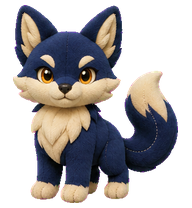
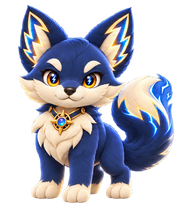
Refresh Quill with Lightning v2 art

diff --git a/src/host/familiar/catalogue.ts b/src/host/familiar/catalogue.ts
@@ -159,8 +159,7 @@ export const familiarCatalogue: readonly FamiliarCatalogueEntry[] = [
   defineFamiliar({ pet: livingGrimoirePet, request: livingGrimoireRequest, timing: livingGrimoireTiming,
     heroUrl: 'https://media.seihouse.org/SEN/GIF/Living%20grimore.gif', rarity: 'common', neutralColumn: 0 }),
   defineFamiliar({ pet: quillPet, request: quillRequest, timing: quillTiming,
-    heroUrl: '/familiars/quill/previews/waving.gif', rarity: 'common', isDefault: true, neutralColumn: 0,
-    animationFrameColumns: { waving: [1, 2] } }),
+    heroUrl: '/familiars/quill/previews/waving.gif', rarity: 'common', isDefault: true, neutralColumn: 0 }),
 ];
 
 const configuredDefaultFamiliar = familiarCatalogue.find(entry => entry.definition.isDefault);

diff --git a/src/host/familiar/catalogue.test.ts b/src/host/familiar/catalogue.test.ts
@@ -58,11 +58,11 @@ describe('Library Familiar catalogue', () => {
     expect(familiarCatalogueEntry('judgmental-jiangshi')?.definition.displayName).toBe('Judgmental Jiangshi');
   });
 
-  it('keeps Quill waving on the raised-paw atlas poses for its whole playback loop', () => {
+  it('plays Quill’s complete raised-paw wave loop', () => {
     expect(familiarCatalogueEntry('quill')?.definition.animations.waving).toMatchObject({
       row: 3,
-      columns: [1, 2],
-      durations: [140, 140],
+      columns: [0, 1, 2, 3],
+      durations: [140, 140, 140, 280],
     });
   });
 

diff --git a/src/components/familiar/README.md b/src/components/familiar/README.md
@@ -5,7 +5,7 @@
 - Replica created: 2026-09-20.
 - Last Workshop update: 2026-09-23.
 - Last source comparison: 2026-09-22.
-- Lifecycle: original artwork preserved; reusable renderer, host catalogue, and Energy interaction under development.
+- Lifecycle: supplied source packages retained; the reusable renderer, host catalogue, and Energy interaction remain in Development.
 - Owner: Library. This first-party companion is not a SEN narrative capability.
 
 ## Source interpretation
@@ -54,16 +54,15 @@ only renderer data. Existing Celestial Guardian provenance predates neutral/timi
 its hash manifest, so its recorded source assets remain verified while the local runtime
 additions are only checked for presence.
 
-Quill was completed from its already validated v2 atlas. Its atlas and supplied
-presentation exports remain unchanged. `animation-timing.json` carries standard v2 row
-timings, with its supplied waving export confirming `[140, 140, 140, 280]`; nine
-transparent QA GIFs are deterministic crops of the validated atlas rather than newly
-generated art. `renderer-validation.json` and `IMPORT-HANDOFF.md` remain with Quill's
-source package as intake evidence and are intentionally not runtime dependencies.
-The supplied waving row starts and ends with lowered-paw transition cells, so Development
-playback loops only raised-paw columns 1 and 2. Both the floating companion and the active
-profile-card preview use that same local two-pose loop; the supplied atlas and presentation
-exports are preserved.
+Quill keeps the same `quill` catalogue ID, common rarity, default status, and Lightning
+training affinity. Its Development presentation has been replaced with a generated v2
+atlas grounded in the supplied `Quill-v2.png` artwork. The new cobalt-and-cream fox-cat
+has natural fur texture, gold-edged cyan Lightning markings, and a compass-star pendant.
+It preserves the shared 8 × 11, 192 × 208 atlas contract and includes all sixteen look
+directions. The nine transparent QA GIFs are deterministic crops of the accepted atlas.
+Quill's waving loop now plays all four raised-paw frames with durations
+`[140, 140, 140, 280]`. `renderer-validation.json` and `IMPORT-HANDOFF.md` remain with
+Quill's source package as intake evidence and are intentionally not runtime dependencies.
 
 ## Modular integration
 
@@ -256,6 +255,10 @@ Escape/outside dismissal, and reduced-motion handling.
 
 ## Workshop history
 
+- 2026-09-23: Replaced Quill's Development presentation with the Lightning-themed v2
+  atlas grounded in the supplied `Quill-v2.png`. Preserved the `quill` ID, common/default
+  catalogue settings, and Lightning training affinity; retained the full four-frame wave
+  loop and regenerated the nine deterministic previews from the new atlas.
 - 2026-09-23: Familiar rarity (this catalogue's `rarity`) is now documented and labelled as its
   own scale, "Epic familiar", separate from the cultivator's Bond Rank with a Familiar
   ("Legendary bond"); `familiarRarityLabel` lives beside `FamiliarRarity`. The profile's equipped
